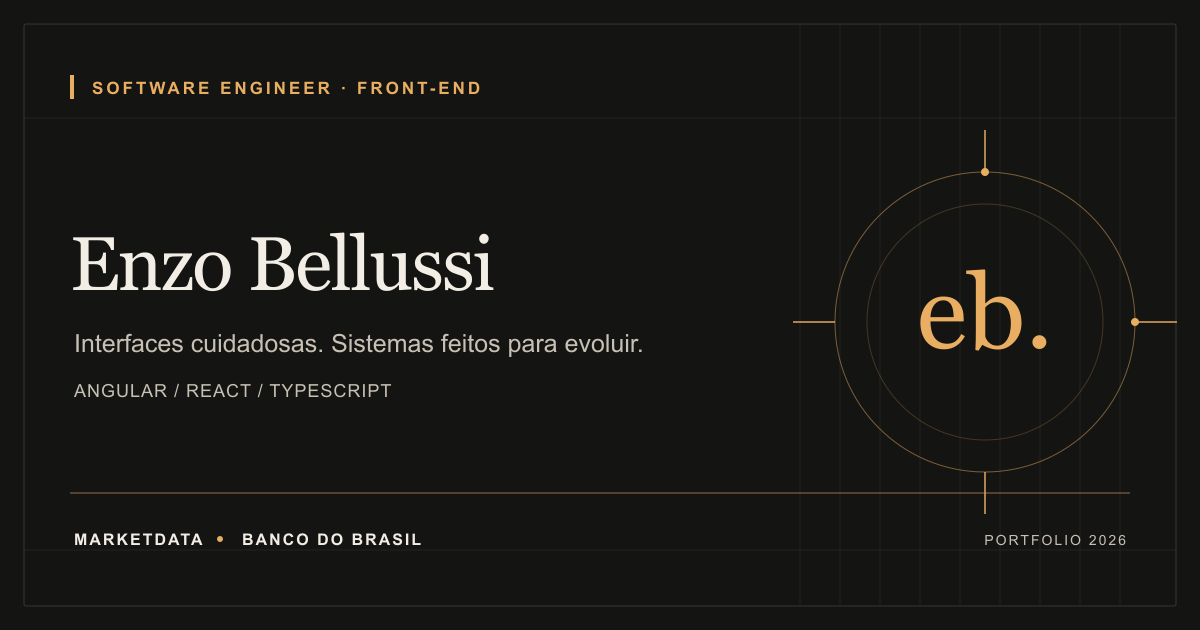
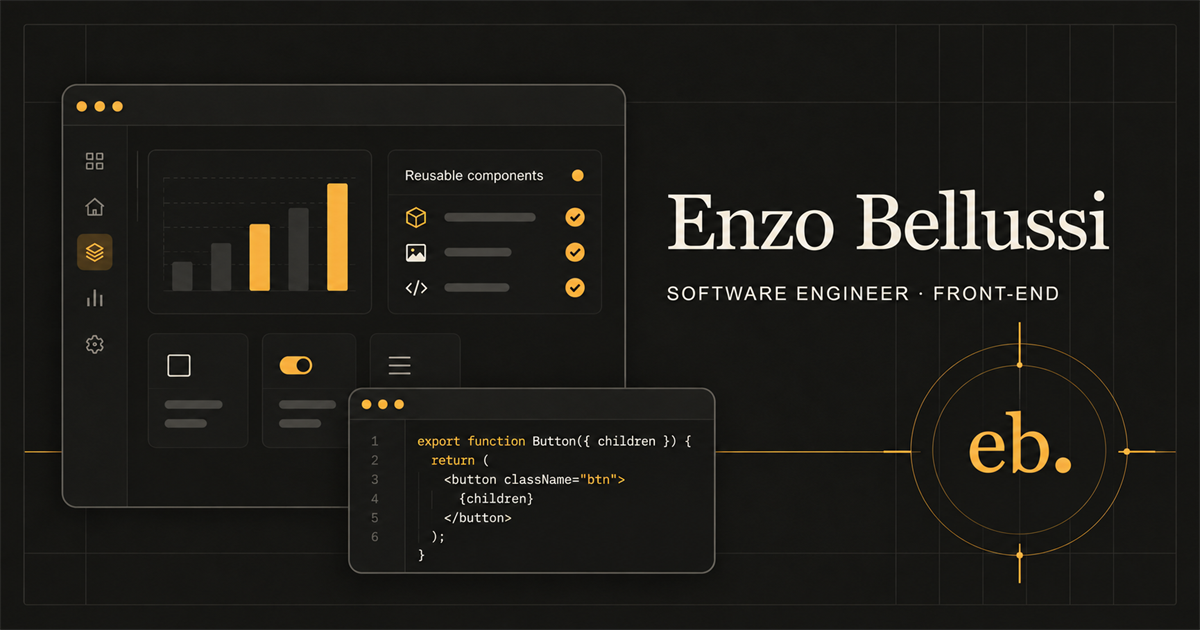
feat(portfolio): refresh sharing card and metadata

diff --git a/index.html b/index.html
@@ -21,7 +21,7 @@
     <meta name="author" content="Enzo Bellussi" />
     <meta
       name="description"
-      content="Enzo Bellussi, Software Engineer com foco em front-end. Experiência na MarketData e no Banco do Brasil, com Angular, React e TypeScript."
+      content="Software Engineer focado em front-end. Construo interfaces cuidadosas e sistemas preparados para evoluir com Angular, React e TypeScript. Experiência na MarketData e no Banco do Brasil."
     />
     <meta name="robots" content="index, follow, max-image-preview:large" />
     <meta
@@ -30,7 +30,7 @@
     />
     <meta
       property="og:description"
-      content="Enzo Bellussi, Software Engineer com foco em front-end. Experiência na MarketData e no Banco do Brasil, com Angular, React e TypeScript."
+      content="Software Engineer focado em front-end. Construo interfaces cuidadosas e sistemas preparados para evoluir com Angular, React e TypeScript. Experiência na MarketData e no Banco do Brasil."
     />
     <meta property="og:type" content="website" />
     <meta property="og:url" content="https://bellussi.vercel.app/" />
@@ -47,7 +47,7 @@
     <meta property="og:image:height" content="630" />
     <meta
       property="og:image:alt"
-      content="Enzo Bellussi — Software Engineer com foco em Front-end, em um cartão grafite com detalhes âmbar."
+      content="Composição editorial com os painéis de interface e código do hero do portfólio de Enzo Bellussi, em carvão, creme e âmbar."
     />
     <meta name="twitter:card" content="summary_large_image" />
     <meta
@@ -56,12 +56,12 @@
     />
     <meta
       name="twitter:description"
-      content="Enzo Bellussi, Software Engineer com foco em front-end. Experiência na MarketData e no Banco do Brasil, com Angular, React e TypeScript."
+      content="Software Engineer focado em front-end. Construo interfaces cuidadosas e sistemas preparados para evoluir com Angular, React e TypeScript. Experiência na MarketData e no Banco do Brasil."
     />
     <meta name="twitter:image" content="https://bellussi.vercel.app/og-image.png" />
     <meta
       name="twitter:image:alt"
-      content="Enzo Bellussi — Software Engineer com foco em Front-end, em um cartão grafite com detalhes âmbar."
+      content="Composição editorial com os painéis de interface e código do hero do portfólio de Enzo Bellussi, em carvão, creme e âmbar."
     />
     <link rel="canonical" href="https://bellussi.vercel.app/" />
     <link rel="icon" type="image/svg+xml" href="/favicon.svg?v=2" />
@@ -89,7 +89,7 @@
             "@id": "https://bellussi.vercel.app/#profile",
             "url": "https://bellussi.vercel.app/",
             "name": "Enzo Bellussi | Software Engineer com foco em Front-end",
-            "description": "Enzo Bellussi, Software Engineer com foco em front-end. Experiência na MarketData e no Banco do Brasil, com Angular, React e TypeScript.",
+            "description": "Software Engineer focado em front-end. Construo interfaces cuidadosas e sistemas preparados para evoluir com Angular, React e TypeScript. Experiência na MarketData e no Banco do Brasil.",
             "inLanguage": "pt-BR",
             "isPartOf": { "@id": "https://bellussi.vercel.app/#website" },
             "mainEntity": { "@id": "https://bellussi.vercel.app/#person" }
@@ -99,7 +99,7 @@
             "@id": "https://bellussi.vercel.app/#person",
             "name": "Enzo Bellussi",
             "jobTitle": "Software Engineer",
-            "description": "Software Engineer com foco em front-end, experiência em aplicações corporativas, arquitetura de interfaces e modernização de sistemas.",
+            "description": "Software Engineer focado em front-end. Construo interfaces cuidadosas e sistemas preparados para evoluir com Angular, React e TypeScript. Experiência na MarketData e no Banco do Brasil.",
             "url": "https://bellussi.vercel.app/",
             "worksFor": { "@type": "Organization", "name": "MarketData" },
             "alumniOf": {
@@ -375,7 +375,7 @@
       >
         <span class="index-grid-cross index-grid-cross--quarter" aria-hidden="true"></span>
         <span class="index-grid-cross index-grid-cross--half" aria-hidden="true"></span>
-        <span class="index-grid-cross index-grid-cross--end" aria-hidden="true"></span>
+        <span class="index-grid-cross index-grid-cross--three-quarter" aria-hidden="true"></span>
         <div class="section-heading reveal" data-reveal="right">
           <p class="eyebrow">
             <span>02</span><span data-i18n="productsLabel">PRODUTOS</span>

diff --git a/src/utils/page-metadata.js b/src/utils/page-metadata.js
@@ -4,14 +4,14 @@ const metadataByLanguage = {
     ogLocale: "pt_BR",
     title: "Enzo Bellussi | Software Engineer com foco em Front-end",
     description:
-      "Enzo Bellussi, Software Engineer com foco em front-end. Experiência na MarketData e no Banco do Brasil, com Angular, React e TypeScript.",
+      "Software Engineer focado em front-end. Construo interfaces cuidadosas e sistemas preparados para evoluir com Angular, React e TypeScript. Experiência na MarketData e no Banco do Brasil.",
   },
   en: {
     htmlLang: "en",
     ogLocale: "en_US",
     title: "Enzo Bellussi | Front-end Software Engineer",
     description:
-      "Enzo Bellussi is a Software Engineer focused on front-end, with experience at MarketData and Banco do Brasil.",
+      "Enzo Bellussi is a Front-end Software Engineer building thoughtful interfaces and systems designed to evolve with Angular, React, and TypeScript. Experience at MarketData and Banco do Brasil.",
   },
 };
 
